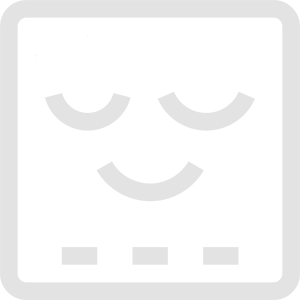
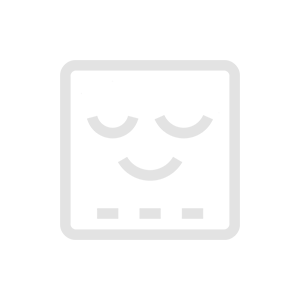
Fix placeholders size and behavior

diff --git a/Stickeroid MessagesExtension/Contoller/MessagesViewController+UICollectionViewDataSource.swift b/Stickeroid MessagesExtension/Contoller/MessagesViewController+UICollectionViewDataSource.swift
@@ -28,14 +28,11 @@ extension MessagesViewController {
         }
         
         if (indexPath.row < stickerURLs.count) {
-//            let thumbnailURL = stickerURLs[indexPath.row].0
             let fullImageURL = stickerURLs[indexPath.row].1
-            
-//            cell.thumbnailURL = thumbnailURL
             cell.fullImageURL = fullImageURL
             
             // Library guarantees same URL won't be fetched twice
-            cell.stickerImageView.sd_setImage(with: cell.fullImageURL)
+            cell.stickerImageView.sd_setImage(with: cell.fullImageURL, placeholderImage: #imageLiteral(resourceName: "placeholder_300px.png"))
         }
         
         return cell
